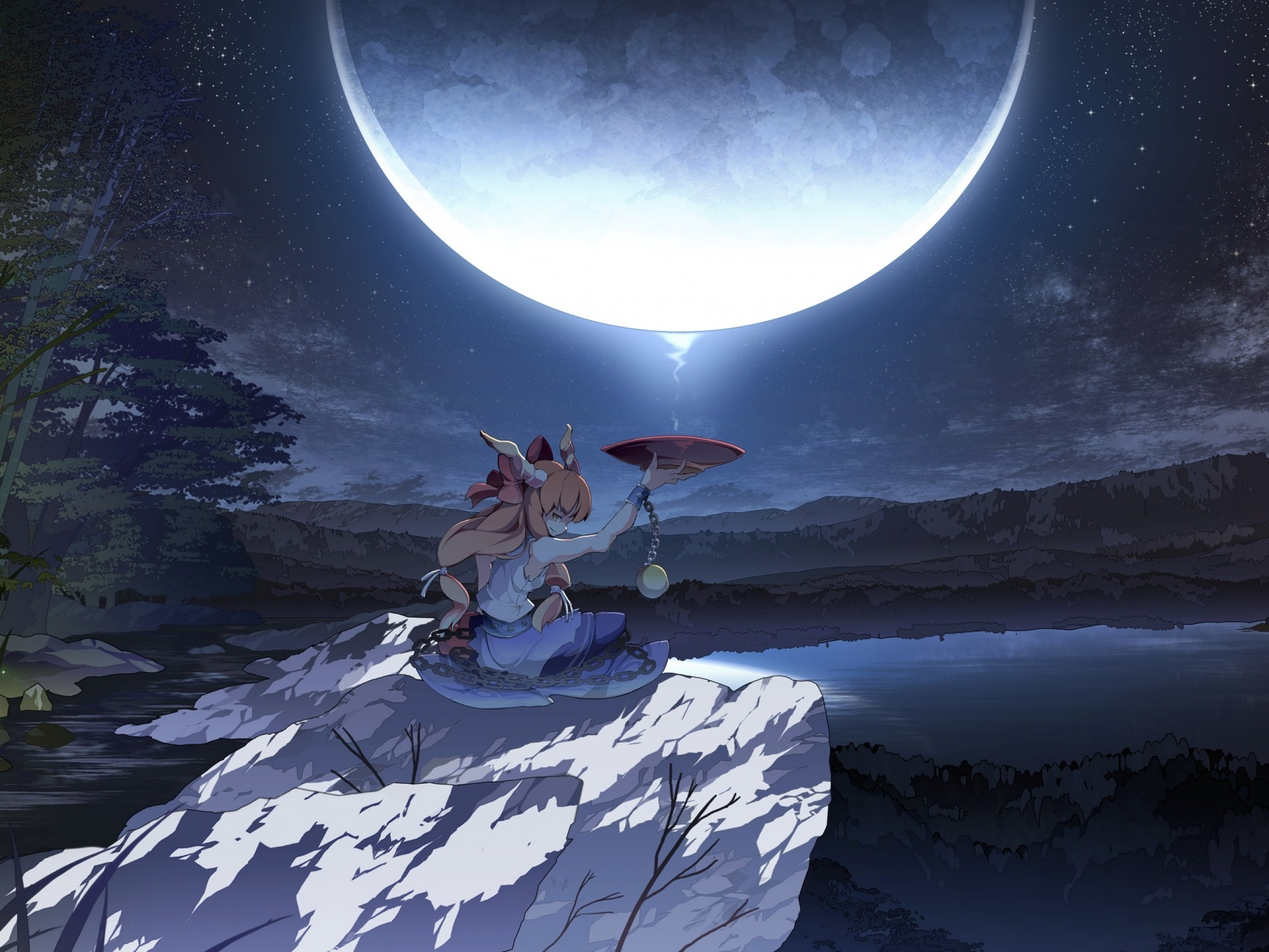
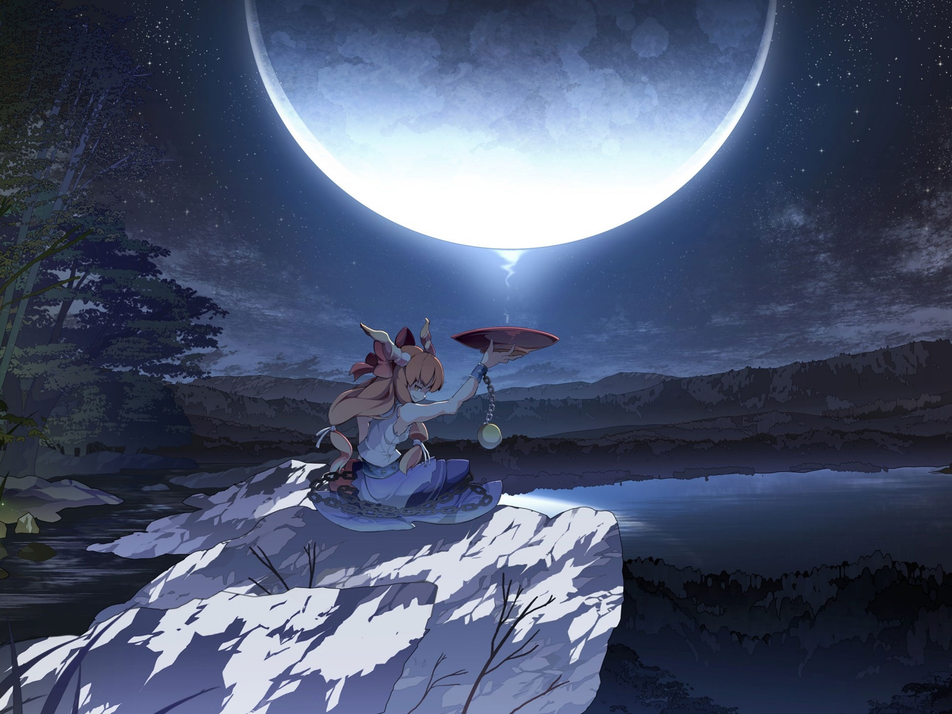
minify images size

diff --git a/index.html b/index.html
@@ -44,7 +44,7 @@
 
                 <div id="product" class="section product">
                     <div class="top-img">
-                        <img src="images/0052.png">
+                        <img src="images/0052.jpg">
                     </div>
                     <div class="section-contents">
                         <h2 class="title"><span>作品集</span></h2>

diff --git a/src/index.html b/src/index.html
@@ -46,7 +46,7 @@
 
                 <div id="product" class="section product">
                     <div class="top-img">
-                        <img src="images/0052.png">
+                        <img src="images/0052.jpg">
                     </div>
                     <div class="section-contents">
                         <h2 class="title"><span>作品集</span></h2>
